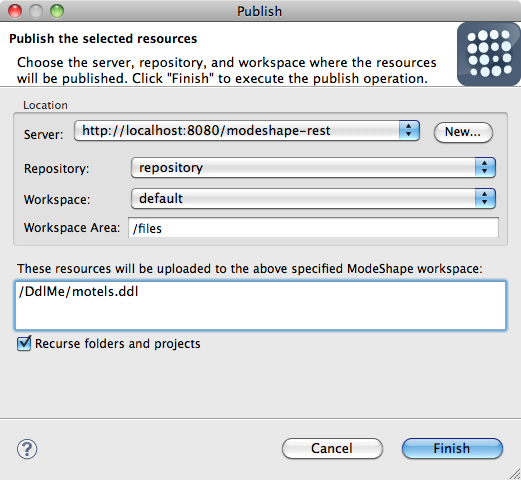
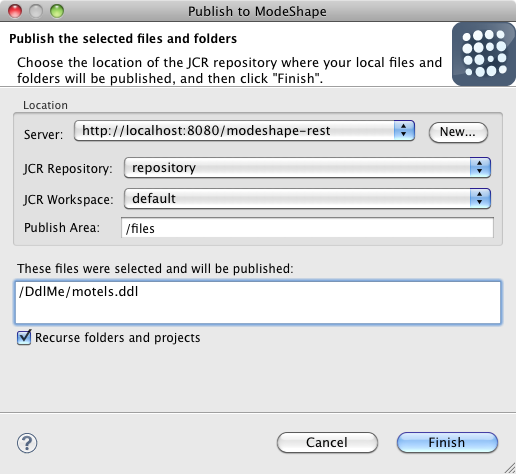
JBIDE-7660 ModeShape N&N Beta2: Attempt to add clarity to when the words "workspace" and "resource" are being used in the publishing wizard.
git-svn-id: http://svn.jboss.org/repos/jbosstools/trunk@27013 a97e2381-89e5-4abb-bab3-167db6db766c

diff --git a/documentation/whatsnew/modeshape/modeshape-news-3.2.0.beta2.html b/documentation/whatsnew/modeshape/modeshape-news-3.2.0.beta2.html
@@ -9,9 +9,9 @@
 <title>ModeShape What's New</title>
 </head>
 <body>
-<h1>ModeShape 7.1.0 Beta2 What's New</h1>
+<h1>ModeShape 3.2.0 Beta2 What's New</h1>
 <p align="right"><a href="../index.html">&lt; Main Index</a></p>
-<p>Last revised November 24, 2010</p>
+<p>Last revised November 29, 2010</p>
 
 <table border="0" cellpadding="10" cellspacing="0" width="80%">
   <tr><td colspan="2"><hr /></td></tr>
@@ -24,20 +24,22 @@
 
       <td valign="top">
       	<p>
-      	The publishing wizard now allows you to optionally enter a repository workspace area. A workspace area is a known  
-      	repository location that is being monitored by the ModeShape service responsible for sequencing files. A file published 
-      	to a workspace area will get sequenced as long as there is a sequencer operating on their file type.
+      	The publishing wizard now allows you to specify where in the JCR repository your files and folders will be published. When 
+      	you publish to one of these "publish areas", the ModeShape repository will automatically sequence your files to extract 
+      	useful information and make it available to other repository users. (The kind and structure of information extracted 
+      	depends upon the type of file and the configuration of the ModeShape repository.)
       	</p>
-      	<p>The workspace area path is appended to the server URL to determine the root location the wizard uses to publish and
-      	unpublish files. A file's project path is appended to the root path to determine its repository location.
-      	</p>
+      	<p>
+		The actual location where the files will be published is constructed by appending the server URL, the names of the JCR 
+		repository and workspace, the path to the publish area, and the path of the files and folders within your Eclipse workspace.
+		</p>
 
       	<p>
       	Here is what the ModeShape publishing wizard looks like:
       	</p>
       	
       	<p>
-      	<img src="images/PublishDialog-7.1.0.beta2.png" alt="ModeShape Publishing Wizard"/>
+      	<img src="images/PublishDialog-3.2.0.beta2.png" alt="ModeShape Publishing Wizard"/>
       	</p>
       </td>
   </tr>

diff --git a/documentation/whatsnew/index.html b/documentation/whatsnew/index.html
@@ -39,7 +39,7 @@
             
       <p><a href="bpel/bpel-news-1.1.0.beta1.html">BPEL Tools</a></p>
       <p><a href="esb/esb-news-1.4.0.Beta2.html">ESB Tools</a></p>
-      <p><a href="modeshape/modeshape-news-7.1.0.Beta2.html">Modeshape</a></p>
+      <p><a href="modeshape/modeshape-news-3.2.0.Beta2.html">Modeshape</a></p>
          
     </td>
   </tr>
